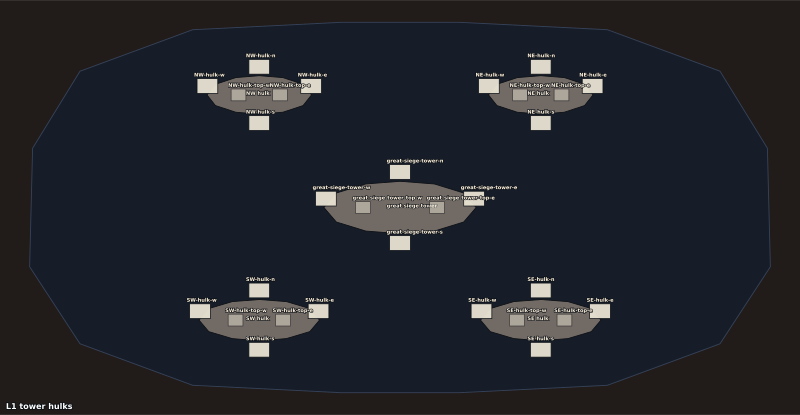
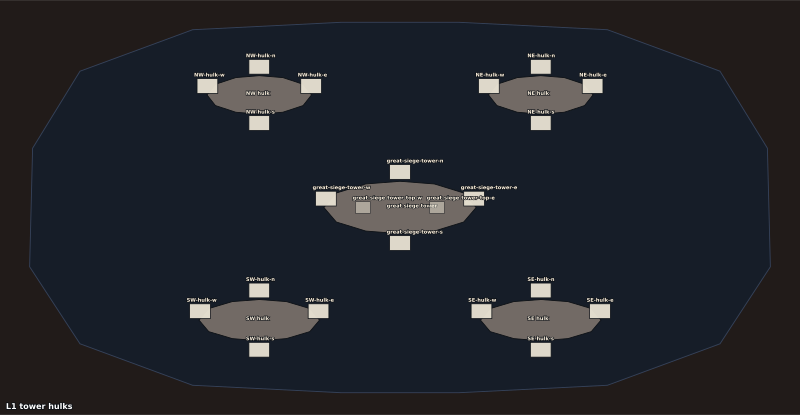
#3430: Scarred Earth: outer lanes clear of the craters, only the great hulk has a deck, drop-offs x-mirrored

diff --git a/docs/art/3075-scarred-earth.md b/docs/art/3075-scarred-earth.md
@@ -17,15 +17,15 @@ battlefield: craters as pits, trenches as tunnels, wrecked siege towers as tower
   scrub `#5a5444`). No new row: the scorched field is the volcanic earth and ash, the craters are
   dark pits with a pale rim. `ash` is not proposed.
 - **Layers (3):** L0 the field, ten craters and two trenches; L1 the five tower hulks (70 up); L2
-  their five decks (140). 30 stairs.
-- **Structures (10 + 2 tunnels):** five siege-tower hulks, each a base and a deck. Below Moss
+  the great siege tower's deck (140). 22 stairs.
+- **Structures (5 + 2 tunnels):** five siege-tower hulks; only the great one has a deck. Below Moss
   Vale's count.
 - **Capture points (5, as today, home points):** **P3** the great siege tower (2700,1400, on its L2
   deck) is the centre, on the axis x = 2700, 0 % from equidistant. Two mirrored pairs, one hulk
   nearer each base, on the hulks' bases (L1): north **P1** (1750,640) for team 1 and **P2**
   (3650,640) for team 2; south **P4** (1750,2160) for team 1 and **P5** (3650,2160) for team 2.
   Parity is per pair: team 1's walk to P1 equals team 2's to P2, and so for P4/P5. Each hulk has a
-  stair on all four faces (its deck two), so ≥ 2 routes reach it for either team, none through the
+  stair on all four faces (the great deck two), so ≥ 2 routes reach it for either team, none through the
   other's spawn. No point is in a trench, zone or crater. Resurrection shrines 1 (700,1000) and 2
   (4700,1000).
 - **Craters (pits, 10):** five a side, 280..340 wide, off every route (the routes run on the open
@@ -35,8 +35,8 @@ battlefield: craters as pits, trenches as tunnels, wrecked siege towers as tower
   120 u from a trench centre line (y 900 and y 1900), the outer lanes on the field edge (y 330, 2470);
   a route only crosses a trench at right angles. Cover shows the seam and grating slots (#3236), as
   wide as the walkable floor (#3179).
-- **Drop-offs (4):** the great hulk's north and south edges, the NW hulk's west edge and the SE
-  hulk's east edge.
+- **Drop-offs (4):** the great hulk's north and south edges, the NW hulk's west edge and the NE
+  hulk's east edge (x-mirrored).
 - **Elements:** four **trench gates** start shut. Two brass **levers** on the hulk bases, (1550,640)
   **opens both north gates** and (3850,2160) **both south gates**: either team can open a trench, and
   a pulled lever opens it for both. No lift is used. Two **breakable wrecked palisades**, a mirrored
@@ -51,7 +51,7 @@ battlefield: craters as pits, trenches as tunnels, wrecked siege towers as tower
   13 lights, under 16. Nothing is dim except the trenches, which have their mouth torches.
 - **Reduced motion:** torch flicker steady, smoke holds still, spring drift stops; the gates move
   once on a lever.
-- **8v8 tick budget:** 3 layers, 10 structures.
+- **8v8 tick budget:** 3 layers, 5 structures.
 
 ## Routes and balance (base speed 180 u/s)
 
@@ -69,24 +69,24 @@ the gap the structure gives, not a promise about the final art.
 
 | Point                 | outer lane             | inner lane |
 | --------------------- | ---------------------- | ---------- |
-| 1 / 2 own hulk, north | 12.1 s                 | 9.0 s      |
-| 4 / 5 own hulk, south | 12.0 s                 | 9.0 s      |
-| 2 / 1 far hulk, north | 22.6 s                 | 19.6 s     |
-| 5 / 4 far hulk, south | 22.6 s                 | 19.5 s     |
+| 1 / 2 own hulk, north | 14.3 s                 | 9.0 s      |
+| 4 / 5 own hulk, south | 14.3 s                 | 9.0 s      |
+| 2 / 1 far hulk, north | 24.9 s                 | 19.6 s     |
+| 5 / 4 far hulk, south | 24.8 s                 | 19.5 s     |
 | 3 great hulk (centre) | 12.0 s (west approach) | 15.6 s     |
 
-A far hulk is a 19..23 s walk, under 25 s. **4v4 plays the whole map from 8v8's camps** (architect
+A far hulk is a 19.5..24.9 s walk, under 25 s. **4v4 plays the whole map from 8v8's camps** (architect
 decision): no second spawn set; the fight with the centre is 12 s from a spawn.
 
-**High ground:** each hulk's deck (L2) overlooks its point and the lanes beside it; the great
-hulk's deck overlooks both inner lanes. Both teams reach each deck in the same time (mirrored).
+**High ground:** each hulk's base (L1) overlooks its point and the lanes beside it; the great
+hulk's deck overlooks both inner lanes. Both teams reach each hulk in the same time (mirrored).
 **Worst case:** the trenches shut change no point's routes (no route runs in a trench); unbroken
 palisades leave every route open.
 
 ## Canyon lessons, on the plan
 
 - Every deck is reachable up and down by click-to-move (#3177): every hulk has a stair on each face
-  and each deck two.
+  and the great deck two.
 - No body is hidden without an outline (#3178/#3251): stairs are open steps, nothing stands north
   or south of one; the beam is thin and fades.
 - The trench cover is the walkable floor and nothing wider (#3179); the hulks over it fade with the
@@ -94,7 +94,7 @@ palisades leave every route open.
 
 ## New art needed / not built
 
-Nothing new: the hulks are stacked `decks` in the volcanic stone with a mound top, the craters the
+Nothing new: the hulks and the great deck are stacked `decks` in the volcanic stone with a mound top, the craters the
 existing pits, the gates the existing gate look. Mechanics are not designed here.
 
 ## Questions
